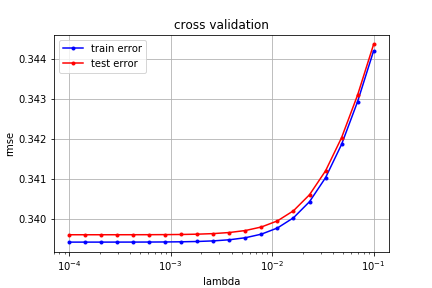
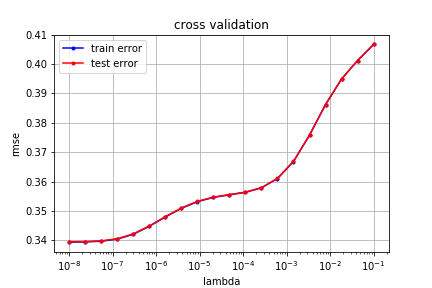
cleanup code, ready to merge with split_jet_num, as I need the CV function

diff --git a/projects/project1/scripts/cross_validation.py b/projects/project1/scripts/cross_validation.py
@@ -1,0 +1,64 @@
+from plots import cross_validation_visualization
+from implementations import *
+from build_polynomial import *
+import numpy as np
+
+
+def build_k_indices(y, k_fold, seed):
+    """build k indices for k-fold."""
+    num_row = y.shape[0]
+    interval = int(num_row / k_fold)
+    np.random.seed(seed)
+    indices = np.random.permutation(num_row)
+    k_indices = [indices[k * interval: (k + 1) * interval] for k in range(k_fold)]
+    return np.array(k_indices)
+
+def cross_validation(y, tX, k_indices, k, lambda_, degree):
+    """return the loss of ridge regression."""
+    tr_indice = k_indices[~(np.arange(k_indices.shape[0]) == k)]
+    tr_indice = tr_indice.reshape(-1)
+    tX_te=tX[k_indices[k]]
+    tX_tr=tX[tr_indice]
+    y_te=y[k_indices[k]]
+    y_tr=y[tr_indice]
+    tX_te_poly=build_poly(tX_te,degree)
+    tX_tr_poly=build_poly(tX_tr,degree)
+    [loss_tr,w]=ridge_regression(y_tr,tX_tr_poly,lambda_)
+    loss_te=compute_loss(y_te,tX_te_poly,w)
+    return loss_tr, loss_te, w
+
+def cross_validation_best_weight(y,tX,k_fold,degree,seed,lower_lambda,upper_lambda,name_to_add_in_path):
+    lambdas = np.logspace(lower_lambda, upper_lambda, 20)
+    # split data in k fold
+    k_indices = build_k_indices(y, k_fold, seed)
+    # define lists to store the loss of training data and test data
+    rmse_tr = []
+    rmse_te = []
+    weights=[]
+    for d in range(1,degree):
+        print("DEGREE = " + str(d))
+        rmse_tr_l=[]
+        rmse_te_l=[]
+        w_l=[]
+        for lambda_ in lambdas:
+            print("Lambda = "+str(lambda_))
+            rmse_tr_k=[]
+            rmse_te_k=[]
+            w_k=[]
+            for k in range(k_fold):
+                cv_res=cross_validation(y, tX, k_indices, k, lambda_, d)
+                rmse_tr_k.append(cv_res[0])
+                rmse_te_k.append(cv_res[1])
+                w_l.append(cv_res[2])
+            rmse_tr_l.append(np.mean(rmse_tr_k))
+            rmse_te_l.append(np.mean(rmse_te_k))
+            w_l.append(np.mean(w_l,axis=0))
+        best_index_l=np.argmin(rmse_te_l)
+        cross_validation_visualization(lambdas, rmse_tr_l, rmse_te_l,name_to_add_in_path+strd)
+        rmse_tr.append(rmse_tr_l[best_index_l])
+        rmse_te.append(rmse_te_l[best_index_l])
+        weights.append(w_l[best_index_l])
+        print("Test best error = "  + str(rmse_te_l[best_index_l]) + "for lambda = " + str(lambdas[best_index_l]))
+    best_index_d=np.argmin(rmse_te)
+    print("Test best error = "  + str(rmse_te[best_index_d]) + "for lambda = " + str(lambdas[best_index_d]) + "and degree = "+ str(best_index_d+1))
+    return weights[best_index_d],rmse_te[best_index_d]

diff --git a/projects/project1/scripts/plots.py b/projects/project1/scripts/plots.py
@@ -4,7 +4,7 @@ import numpy as np
 import matplotlib.pyplot as plt
 
 
-def cross_validation_visualization(lambds, mse_tr, mse_te,d):
+def cross_validation_visualization(lambds, mse_tr, mse_te,name_to_add_in_path):
     """visualization the curves of mse_tr and mse_te."""
     plt.semilogx(lambds, mse_tr, marker=".", color='b', label='train error')
     plt.semilogx(lambds, mse_te, marker=".", color='r', label='test error')
@@ -13,7 +13,7 @@ def cross_validation_visualization(lambds, mse_tr, mse_te,d):
     plt.title("cross validation")
     plt.legend(loc=2)
     plt.grid(True)
-    plt.savefig("cross_validation_degree"+str(d))
+    plt.savefig("cross_validation_degree"+d)
     plt.show()
 
 
